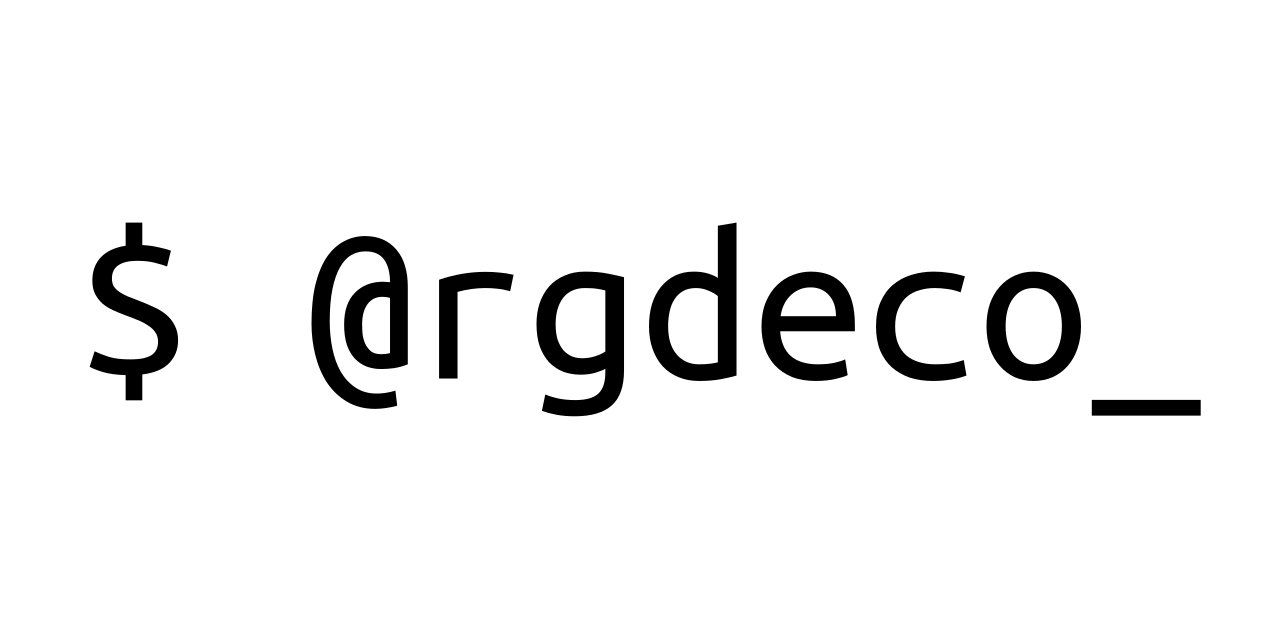
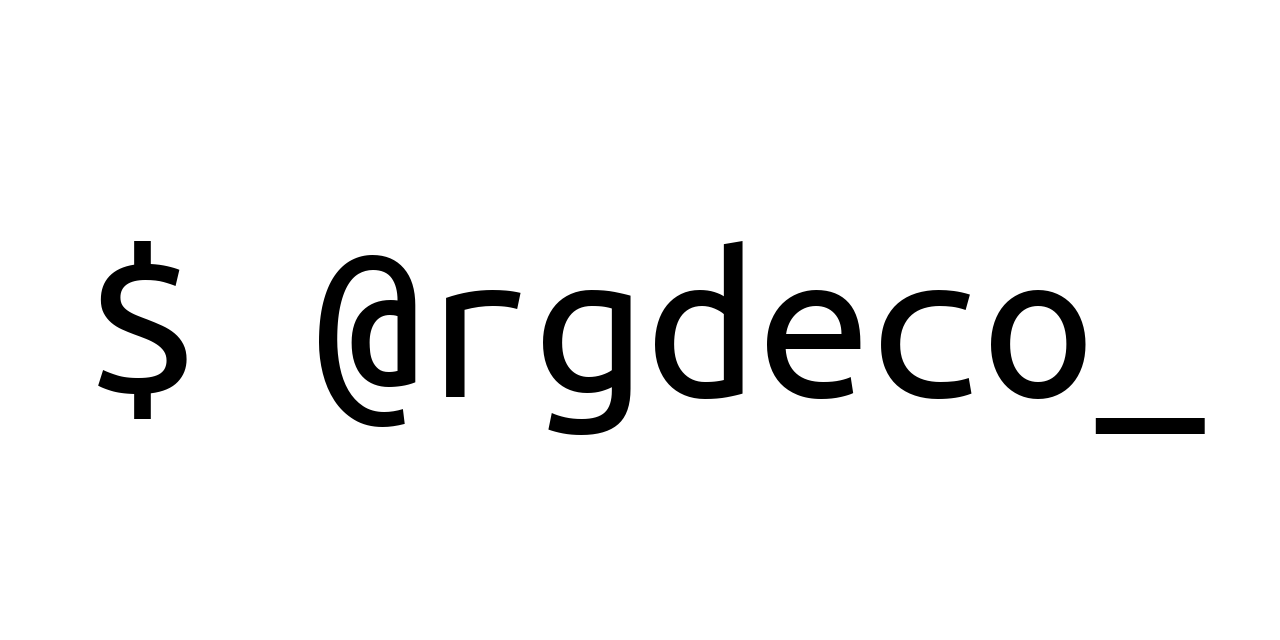
Final asset update

Changed region(s): [[0.2188, 0.3438, 0.875, 0.6875], [0.0625, 0.3438, 0.1562, 0.6562], [0.8438, 0.625, 0.9375, 0.6875]]

diff --git a/README.md b/README.md
@@ -1,5 +1,5 @@
 <p align="center">
-  <img src="assets/argdeco.svg" alt="argdeco" width="640" height="320" />
+  <img src="assets/argdeco.png" alt="argdeco" width="640" height="320" />
 </p>
 
 <h1></h1>
